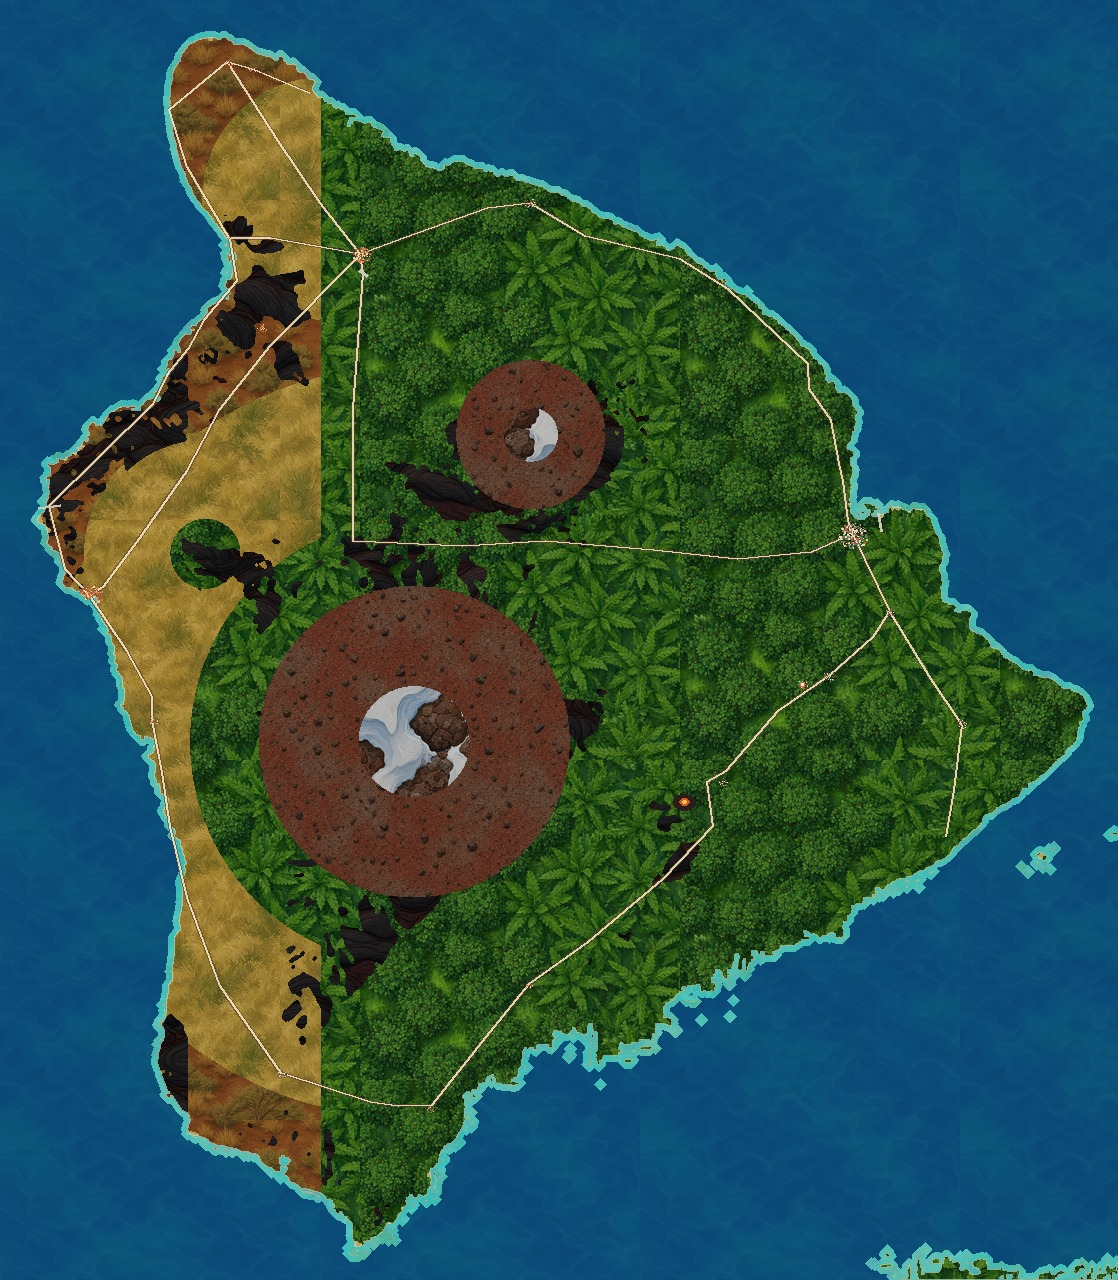
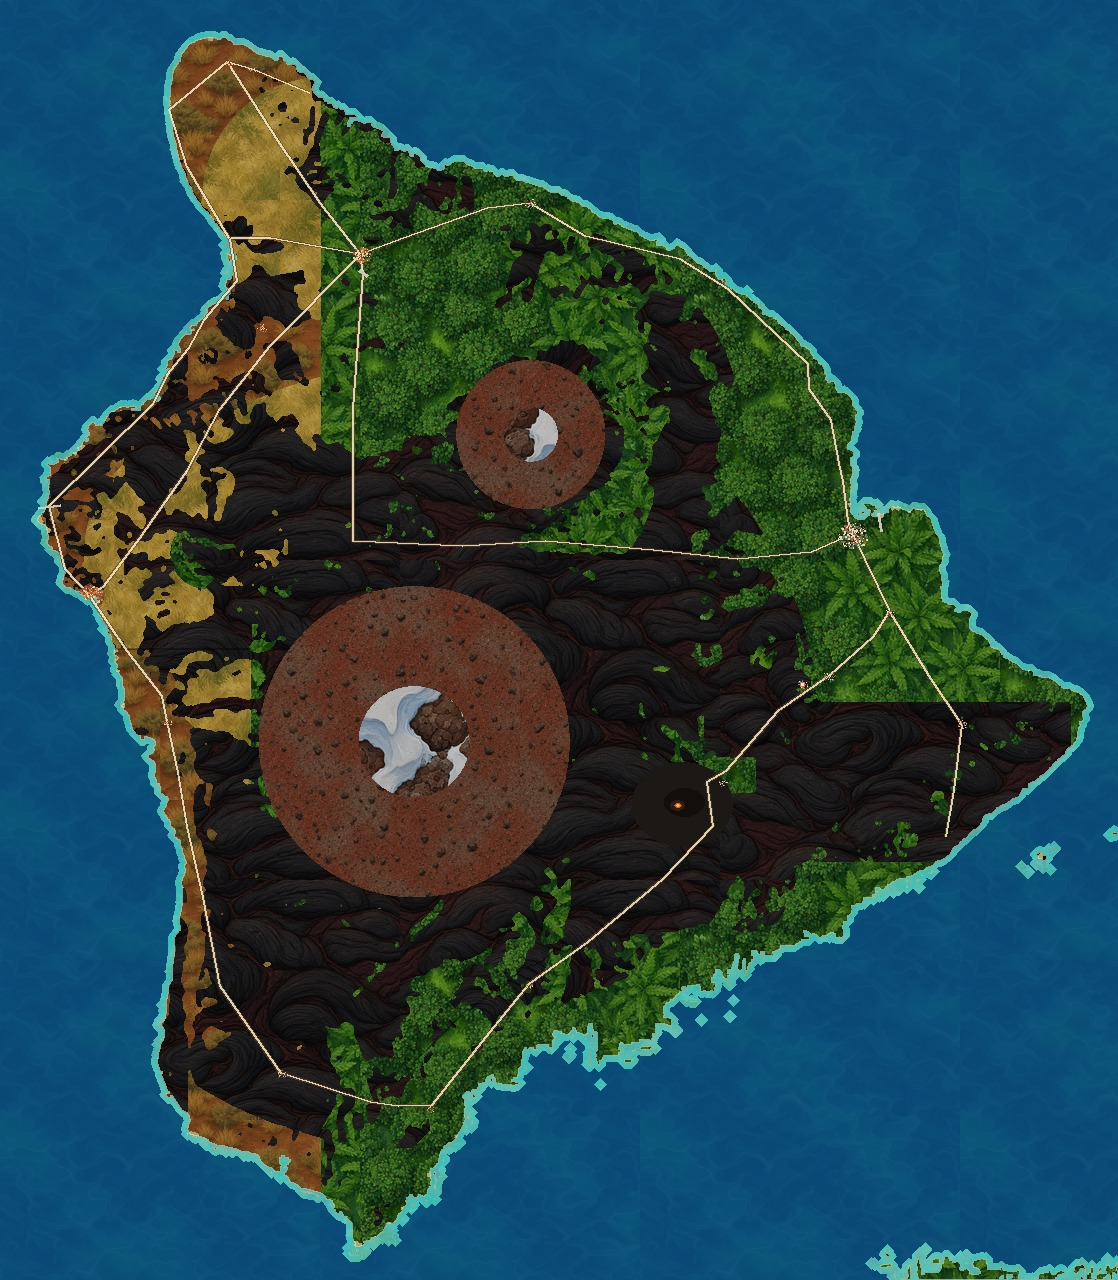
Kīlauea summit is black cinder, not a green postage stamp
Drop the rectangular atlas overlay. Bowl is oval. Volcano Village
stays rainforest on the NE rim. Atlas lava covers HVNP and the rift.

diff --git a/src/components/flight/Caldera.tsx b/src/components/flight/Caldera.tsx
@@ -1,64 +1,72 @@
-import { useEffect, useLayoutEffect, useMemo, useState } from "react";
-import { BufferAttribute, PlaneGeometry, SRGBColorSpace, Texture, TextureLoader } from "three";
-import { WORLD } from "@/lib/hawaii/world";
-import { HALEMAUMAU_WORLD, KILAUEA_WORLD, kilaueaSurfaceY } from "@/lib/hawaii/kilauea";
+import { useLayoutEffect, useMemo } from "react";
+import { CircleGeometry, DoubleSide } from "three";
+import {
+  HALEMAUMAU_WORLD,
+  KILAUEA_RX,
+  KILAUEA_RZ,
+  KILAUEA_WORLD,
+  inVolcanoVillage,
+  kilaueaSurfaceY,
+} from "@/lib/hawaii/kilauea";
+import { terrainY } from "@/lib/hawaii/world";
 
-/** Dense crater mesh so the bowl reads; the island plane is also depressed. */
+/** Oval black-cinder bowl. No rectangular atlas stamp. */
 export function Caldera() {
-  const [map, setMap] = useState<Texture | null>(null);
-  useEffect(() => {
-    const loader = new TextureLoader();
-    const t = loader.load("/maps/hawaii-cartoon.jpg?v=atlas3", (tex) => {
-      tex.colorSpace = SRGBColorSpace;
-      tex.anisotropy = 1;
-      setMap(tex);
-    });
-    return () => t.dispose();
-  }, []);
-
-  const geometry = useMemo(() => {
-    const g = new PlaneGeometry(7.6, 5.6, 40, 30);
+  const bowl = useMemo(() => {
+    const g = new CircleGeometry(1, 48);
     g.rotateX(-Math.PI / 2);
     const pos = g.attributes.position!;
-    const uv = g.attributes.uv!;
     for (let i = 0; i < pos.count; i++) {
-      const x = pos.getX(i) + KILAUEA_WORLD.x;
-      const z = pos.getZ(i) + KILAUEA_WORLD.z;
-      pos.setXYZ(i, x, kilaueaSurfaceY(x, z), z);
-      uv.setXY(i, (x + WORLD.w / 2) / WORLD.w, 1 - (z + WORLD.d / 2) / WORLD.d);
+      const x = KILAUEA_WORLD.x + pos.getX(i) * KILAUEA_RX;
+      const z = KILAUEA_WORLD.z + pos.getZ(i) * KILAUEA_RZ;
+      pos.setXYZ(i, x, kilaueaSurfaceY(x, z) + 0.03, z);
     }
     pos.needsUpdate = true;
-    uv.needsUpdate = true;
     g.computeVertexNormals();
     return g;
   }, []);
 
-  useLayoutEffect(() => () => geometry.dispose(), [geometry]);
+  const apron = useMemo(() => {
+    const g = new CircleGeometry(2.35, 48);
+    g.rotateX(-Math.PI / 2);
+    const pos = g.attributes.position!;
+    for (let i = 0; i < pos.count; i++) {
+      const x = KILAUEA_WORLD.x + pos.getX(i) * KILAUEA_RX;
+      const z = KILAUEA_WORLD.z + pos.getZ(i) * KILAUEA_RZ;
+      if (inVolcanoVillage(x, z)) pos.setXYZ(i, x, -40, z);
+      else pos.setXYZ(i, x, terrainY(x, z) + 0.04, z);
+    }
+    pos.needsUpdate = true;
+    g.computeVertexNormals();
+    return g;
+  }, []);
+
+  useLayoutEffect(() => {
+    return () => {
+      bowl.dispose();
+      apron.dispose();
+    };
+  }, [bowl, apron]);
 
   const pit = HALEMAUMAU_WORLD;
   const py = kilaueaSurfaceY(pit.x, pit.z);
 
   return (
     <group>
-      <mesh geometry={geometry}>
-        <meshStandardMaterial
-          map={map ?? undefined}
-          color={map ? "#ffffff" : "#3a2a22"}
-          roughness={0.94}
-        />
+      <mesh geometry={apron}>
+        <meshStandardMaterial color="#1c1814" roughness={0.98} />
       </mesh>
-      <mesh position={[pit.x, py + 0.04, pit.z]} rotation={[-Math.PI / 2, 0, 0]}>
-        <circleGeometry args={[0.62, 16]} />
-        <meshStandardMaterial color="#c45a22" emissive="#ff6a20" emissiveIntensity={0.7} roughness={0.5} />
+      <mesh geometry={bowl}>
+        <meshStandardMaterial color="#14110f" roughness={0.97} />
       </mesh>
-      <pointLight position={[pit.x, py + 0.3, pit.z]} color="#ff7a28" intensity={1.4} distance={7} />
-      <mesh position={[pit.x + 0.15, py + 0.7, pit.z]}>
-        <coneGeometry args={[0.22, 1.2, 6]} />
-        <meshStandardMaterial color="#e8eef2" transparent opacity={0.22} depthWrite={false} />
+      <mesh position={[pit.x, py + 0.05, pit.z]} rotation={[-Math.PI / 2, 0, 0]}>
+        <circleGeometry args={[0.58, 16]} />
+        <meshStandardMaterial color="#c45a22" emissive="#ff6a20" emissiveIntensity={0.75} roughness={0.5} />
       </mesh>
-      <mesh position={[pit.x - 0.2, py + 0.55, pit.z + 0.15]}>
-        <coneGeometry args={[0.16, 0.9, 6]} />
-        <meshStandardMaterial color="#e8eef2" transparent opacity={0.18} depthWrite={false} />
+      <pointLight position={[pit.x, py + 0.25, pit.z]} color="#ff7a28" intensity={1.35} distance={7} />
+      <mesh position={[pit.x, py + 0.65, pit.z]}>
+        <coneGeometry args={[0.2, 1.05, 6]} />
+        <meshStandardMaterial color="#e8eef2" transparent opacity={0.2} depthWrite={false} side={DoubleSide} />
       </mesh>
     </group>
   );

diff --git a/src/lib/hawaii/kilauea.ts b/src/lib/hawaii/kilauea.ts
@@ -1,23 +1,36 @@
-import { latLonToWorld, terrainY } from "./world";
+import { latLonToWorld, terrainY, worldToLatLon } from "./world";
 
 const CAL = latLonToWorld(19.4069, -155.2834);
 const PIT = latLonToWorld(19.4035, -155.291);
 
 /** Oval caldera in world units (~4 km). */
-const RX = 3.55;
-const RZ = 2.55;
+export const KILAUEA_RX = 3.55;
+export const KILAUEA_RZ = 2.55;
 const PR = 1.05;
 
 export function inKilaueaCaldera(x: number, z: number) {
-  const dx = (x - CAL.x) / RX;
-  const dz = (z - CAL.z) / RZ;
+  const dx = (x - CAL.x) / KILAUEA_RX;
+  const dz = (z - CAL.z) / KILAUEA_RZ;
   return dx * dx + dz * dz < 1.12;
+}
+
+export function inVolcanoVillage(x: number, z: number) {
+  const ll = worldToLatLon(x, z);
+  return ll.lat > 19.418 && ll.lat < 19.46 && ll.lon > -155.265 && ll.lon < -155.198;
+}
+
+/** Summit desert — black cinder, except the village in the ʻōhiʻa. */
+export function inKilaueaCinder(x: number, z: number) {
+  if (inVolcanoVillage(x, z)) return false;
+  const dx = (x - CAL.x) / (KILAUEA_RX * 2.4);
+  const dz = (z - CAL.z) / (KILAUEA_RZ * 2.5);
+  return dx * dx + dz * dz < 1;
 }
 
 /** Depress the shield into Halemaʻumaʻu — the mountain is the crater. */
 export function kilaueaBowlY(x: number, z: number, y0: number) {
-  const dx = (x - CAL.x) / RX;
-  const dz = (z - CAL.z) / RZ;
+  const dx = (x - CAL.x) / KILAUEA_RX;
+  const dz = (z - CAL.z) / KILAUEA_RZ;
   const e = dx * dx + dz * dz;
   if (e >= 1.12) return y0;
   const inner = Math.max(0, 1 - e);

diff --git a/src/components/flight/Forest.tsx b/src/components/flight/Forest.tsx
@@ -6,7 +6,7 @@ import { isCanopy, terrainY } from "@/lib/hawaii/world";
 import { inFlashTownClearing } from "@/lib/hawaii/puna";
 import { inMaunaKeaSummit } from "@/lib/hawaii/maunakea";
 import { inOpenCoast } from "@/lib/hawaii/coast";
-import { inKilaueaCaldera } from "@/lib/hawaii/kilauea";
+import { inKilaueaCinder } from "@/lib/hawaii/kilauea";
 import { inRiver } from "@/lib/hawaii/rivers";
 
 const CELL = 1.25;
@@ -91,7 +91,7 @@ export function Forest({ craft }: { craft: CraftState }) {
         if (hv < 0.2) continue;
         const jx = cx + (hv - 0.5) * 0.7;
         const jz = cz + (hash(gx + ix + 19, gz + iz + 7) - 0.5) * 0.7;
-        if (!isCanopy(jx, jz) || inFlashTownClearing(jx, jz) || inMaunaKeaSummit(jx, jz) || inOpenCoast(jx, jz) || inRiver(jx, jz) || inKilaueaCaldera(jx, jz)) continue;
+        if (!isCanopy(jx, jz) || inFlashTownClearing(jx, jz) || inMaunaKeaSummit(jx, jz) || inOpenCoast(jx, jz) || inRiver(jx, jz) || inKilaueaCinder(jx, jz)) continue;
         const y = terrainY(jx, jz);
         spots.push({ x: jx, y, z: jz, s: 0.3 + hv * 0.4, h: hv, kind: pickKind(y, hv) });
       }

diff --git a/src/components/flight/Island.tsx b/src/components/flight/Island.tsx
@@ -10,7 +10,7 @@ export function Island() {
   useEffect(() => {
     const loader = new TextureLoader();
     const t = loader.load(
-      "/maps/hawaii-cartoon.jpg?v=atlas3",
+      "/maps/hawaii-cartoon.jpg?v=atlas4",
       (tex) => {
         tex.colorSpace = SRGBColorSpace;
         tex.anisotropy = 1;

diff --git a/scripts/paint-cartoon-atlas.py b/scripts/paint-cartoon-atlas.py
@@ -175,6 +175,7 @@ def classify(
 
     yy, xx = np.mgrid[0:h, 0:w]
     lon = GEO["lonMin"] + ((xx - ISLAND_PX["x"]) / ISLAND_PX["w"]) * (GEO["lonMax"] - GEO["lonMin"])
+    lat = GEO["latMax"] - ((yy - ISLAND_PX["y"]) / ISLAND_PX["h"]) * (GEO["latMax"] - GEO["latMin"])
     west = lon < -155.72
     kona_lava = (lon < -155.88) & (meters < 500)
 
@@ -194,6 +195,13 @@ def classify(
     biome[grass] = GRASS
     biome[land & ~west & (meters < 2200)] = RAINFOREST
     biome[lava] = LAVA
+    # Kīlauea summit + Kaʻū desert + east rift are black cinder, not rainforest.
+    dark = land & (luma < 88) & (sat < 42) & (g < 92) & (meters > 180)
+    hvnp = land & (lat > 19.26) & (lat < 19.45) & (lon > -155.42) & (lon < -155.14) & (meters > 650)
+    rift = land & (lat > 19.34) & (lat < 19.52) & (lon > -155.26) & (lon < -154.82) & (luma < 108) & (g < 95)
+    village = land & (lat > 19.418) & (lat < 19.458) & (lon > -155.265) & (lon < -155.198)
+    biome[hvnp | rift | dark] = LAVA
+    biome[village] = RAINFOREST
     biome[alpine] = ALPINE
     biome[snow] = SNOW
     biome[beach] = BEACH
@@ -302,11 +310,15 @@ def foam(img: Image.Image, ocean: np.ndarray) -> None:
 
 
 def kilauea(img: Image.Image) -> None:
+    """Black cinder caldera + Halemaʻumaʻu. Volcano Village stays rainforest."""
     x, y = project(19.4069, -155.2834)
     d = ImageDraw.Draw(img)
-    d.ellipse((x - 11, y - 8, x + 11, y + 8), fill=(42, 28, 24))
-    d.ellipse((x - 5, y - 3.5, x + 5, y + 3.5), fill=(210, 92, 36))
-    d.ellipse((x - 2.2, y - 1.5, x + 2.2, y + 1.5), fill=(255, 196, 80))
+    d.ellipse((x - 52, y - 40, x + 48, y + 44), fill=(28, 24, 22))
+    d.ellipse((x - 20, y - 14, x + 20, y + 14), fill=(18, 14, 12))
+    px, py = project(19.4035, -155.291)
+    d.ellipse((px - 7, py - 5, px + 7, py + 5), fill=(48, 28, 20))
+    d.ellipse((px - 3.5, py - 2.4, px + 3.5, py + 2.4), fill=(210, 92, 36))
+    d.ellipse((px - 1.6, py - 1.1, px + 1.6, py + 1.1), fill=(255, 196, 80))
 
 
 def main() -> None:
